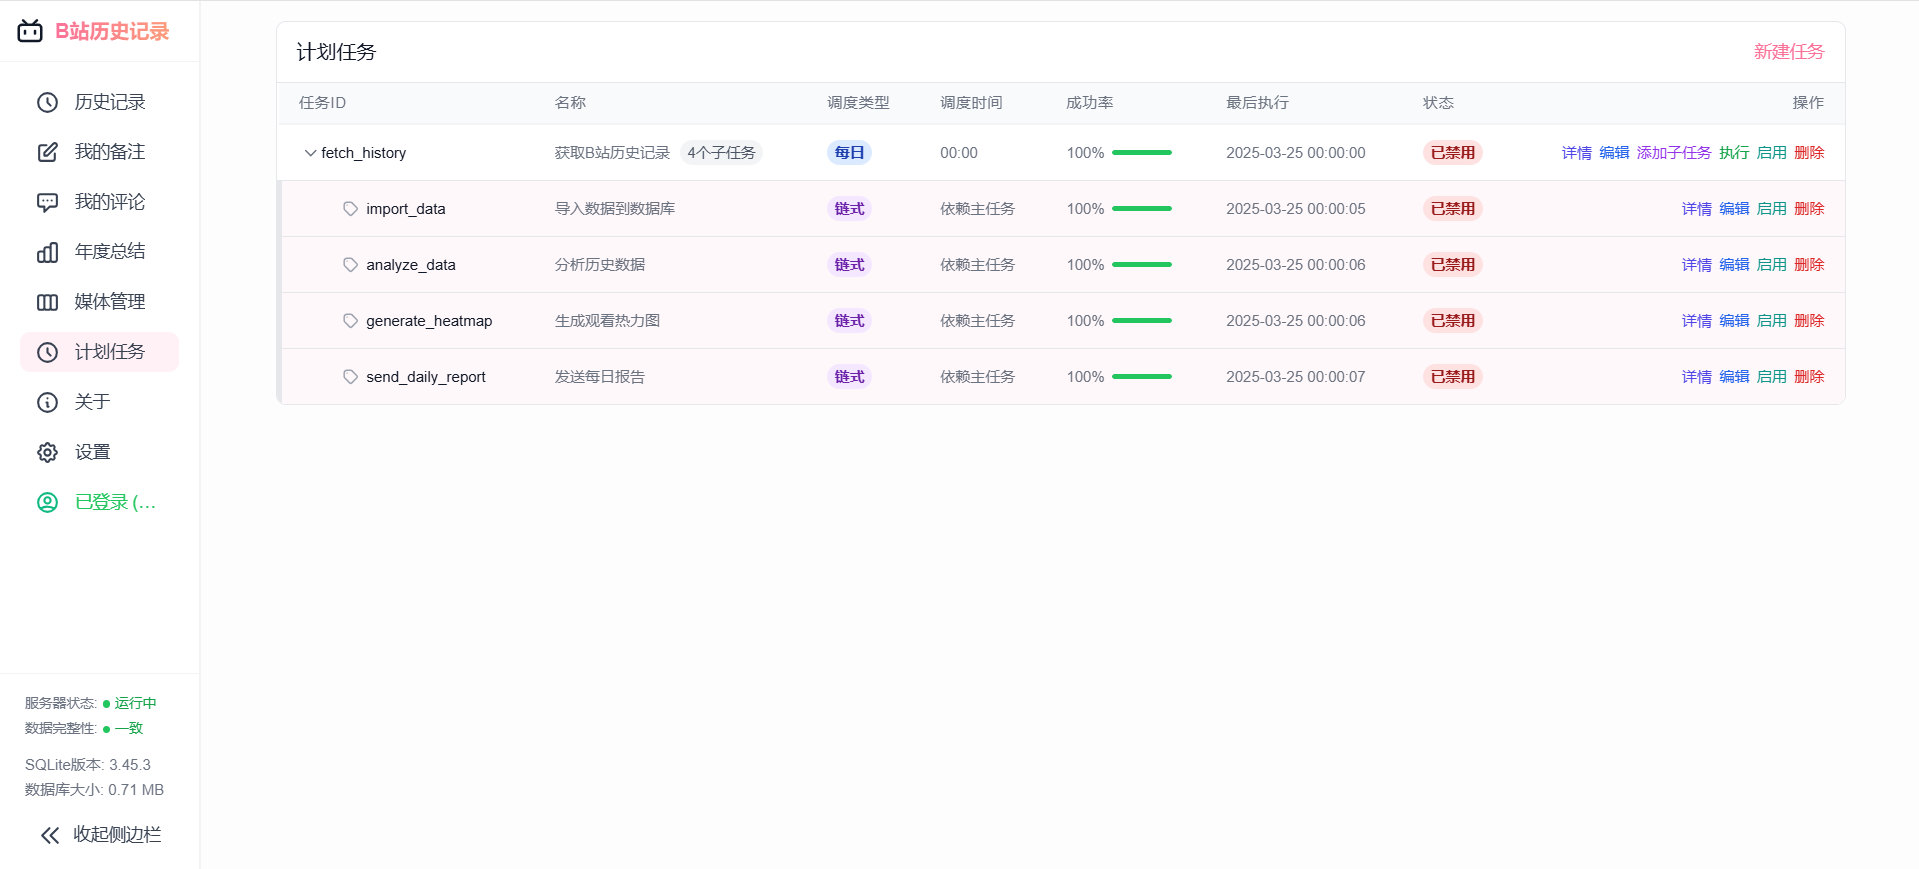
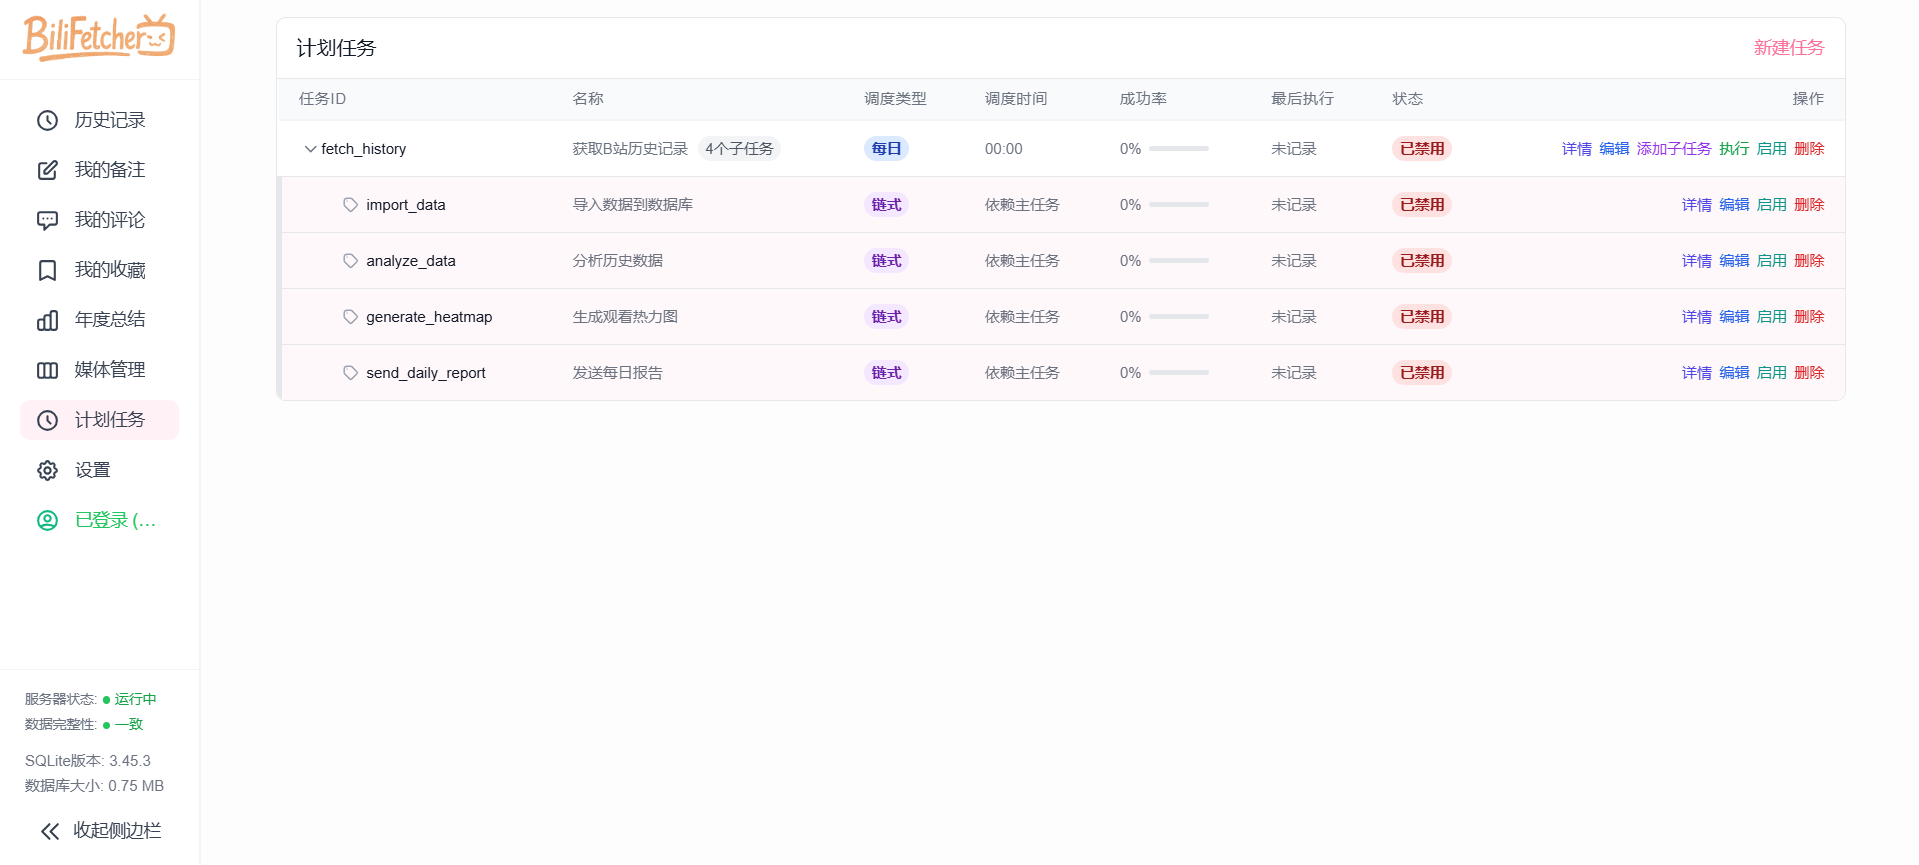
docs(README): 添加logo

diff --git a/src/components/tailwind/Sidebar.vue b/src/components/tailwind/Sidebar.vue
@@ -10,11 +10,8 @@
       <div class="h-full flex flex-col">
         <!-- 顶部 Logo -->
         <div class="p-3 border-b border-gray-200/50">
-          <router-link to="/" class="flex items-center space-x-2" :class="{ 'justify-center': isCollapsed }">
-            <svg class="h-6 w-6 text-gray-900 flex-shrink-0" viewBox="0 0 1024 1024" version="1.1" xmlns="http://www.w3.org/2000/svg">
-              <path fill="currentColor" d="M306.005333 117.632L444.330667 256h135.296l138.368-138.325333a42.666667 42.666667 0 0 1 60.373333 60.373333L700.330667 256H789.333333A149.333333 149.333333 0 0 1 938.666667 405.333333v341.333334a149.333333 149.333333 0 0 1-149.333334 149.333333h-554.666666A149.333333 149.333333 0 0 1 85.333333 746.666667v-341.333334A149.333333 149.333333 0 0 1 234.666667 256h88.96L245.632 177.962667a42.666667 42.666667 0 0 1 60.373333-60.373334zM789.333333 341.333333h-554.666666a64 64 0 0 0-63.701334 57.856L170.666667 405.333333v341.333334a64 64 0 0 0 57.856 63.701333L234.666667 810.666667h554.666666a64 64 0 0 0 63.701334-57.856L853.333333 746.666667v-341.333334A64 64 0 0 0 789.333333 341.333333zM341.333333 469.333333a42.666667 42.666667 0 0 1 42.666667 42.666667v85.333333a42.666667 42.666667 0 0 1-85.333333 0v-85.333333a42.666667 42.666667 0 0 1 42.666666-42.666667z m341.333334 0a42.666667 42.666667 0 0 1 42.666666 42.666667v85.333333a42.666667 42.666667 0 0 1-85.333333 0v-85.333333a42.666667 42.666667 0 0 1 42.666667-42.666667z" />
-            </svg>
-            <span v-show="!isCollapsed" class="text-base font-semibold bg-gradient-to-r from-[#fb7299] to-[#fc9b7a] bg-clip-text text-transparent whitespace-nowrap">B站历史记录</span>
+          <router-link to="/" class="w-full flex justify-center items-center">
+            <img src="/logo.png" class="w-full object-contain" alt="Logo" />
           </router-link>
         </div>
 

diff --git a/README.md b/README.md
@@ -1,4 +1,6 @@
-# BilibiliHistoryFrontend
+<div align="center">
+  <img src="./public/logo.png" alt="Logo">
+</div>
 
 这是一个基于 Vue 3 开发的B站历史记录分析工具的前端项目，为用户提供丰富的B站观看历史数据分析功能。
 
@@ -29,20 +31,6 @@ npm run dev
 npm run build
 ```
 
-**项目结构**
-
-```
-BilibiliHistoryFrontend/
-├── src/                    # 源代码目录
-│   ├── api/               # API 接口
-│   ├── components/        # Vue 组件
-│   │   └── tailwind/     # Tailwind 样式组件
-│   ├── router/           # 路由配置
-│   └── style.css         # 全局样式
-├── public/               # 静态资源
-└── vite.config.js        # Vite 配置
-```
-
 ## 首次使用指南
 
 1. **登录账号**
@@ -69,19 +57,22 @@ BilibiliHistoryFrontend/
 **2. 评论**
 <img src="./public/Comments.png" alt="">
 
-**3. 媒体管理**
+**3. 我的收藏**
+<img src="./public/favorites.png" alt="">
+
+**4. 媒体管理**
 <img src="./public/images.png" alt="">
 
-**4. 计划任务**
+**5. 计划任务**
 <img src="./public/scheduler.png" alt="">
 
-**5. 设置**
+**6. 设置**
 <img src="./public/setting.png" alt="">
 
-**6. 视频下载功能**
+**7. 视频下载功能**
 <img src="./public/download.png" alt="">
 
-**7. 年度总结页面**
+**8. 年度总结页面**
 
 开场页
 <img src="public/HeroPage.png" alt="">
@@ -107,7 +98,7 @@ UP主完成率
 月度关键词
 <img src="./public/MonthlyTitle.png" alt="">
 
-**8. 本地摘要功能**
+**9. 本地摘要功能**
 
 本地摘要功能允许用户在本地生成视频内容摘要，无需依赖B站官方AI摘要：
 
@@ -148,13 +139,6 @@ UP主完成率
    npm run tauri:clean
    ```
    清理 `src-tauri/target` 目录中的构建产物，释放磁盘空间。
-
-### 构建特点
-
-- 小体积：生成的可执行文件约 11MB，远小于 Electron 构建的应用
-- 高性能：使用 Rust 后端和系统 WebView，运行更流畅
-- 无需安装：生成的是独立可执行文件，无需安装即可使用
-- 本地化：所有链接在应用内部打开，提供更好的用户体验
 
 ## 贡献指南
 
